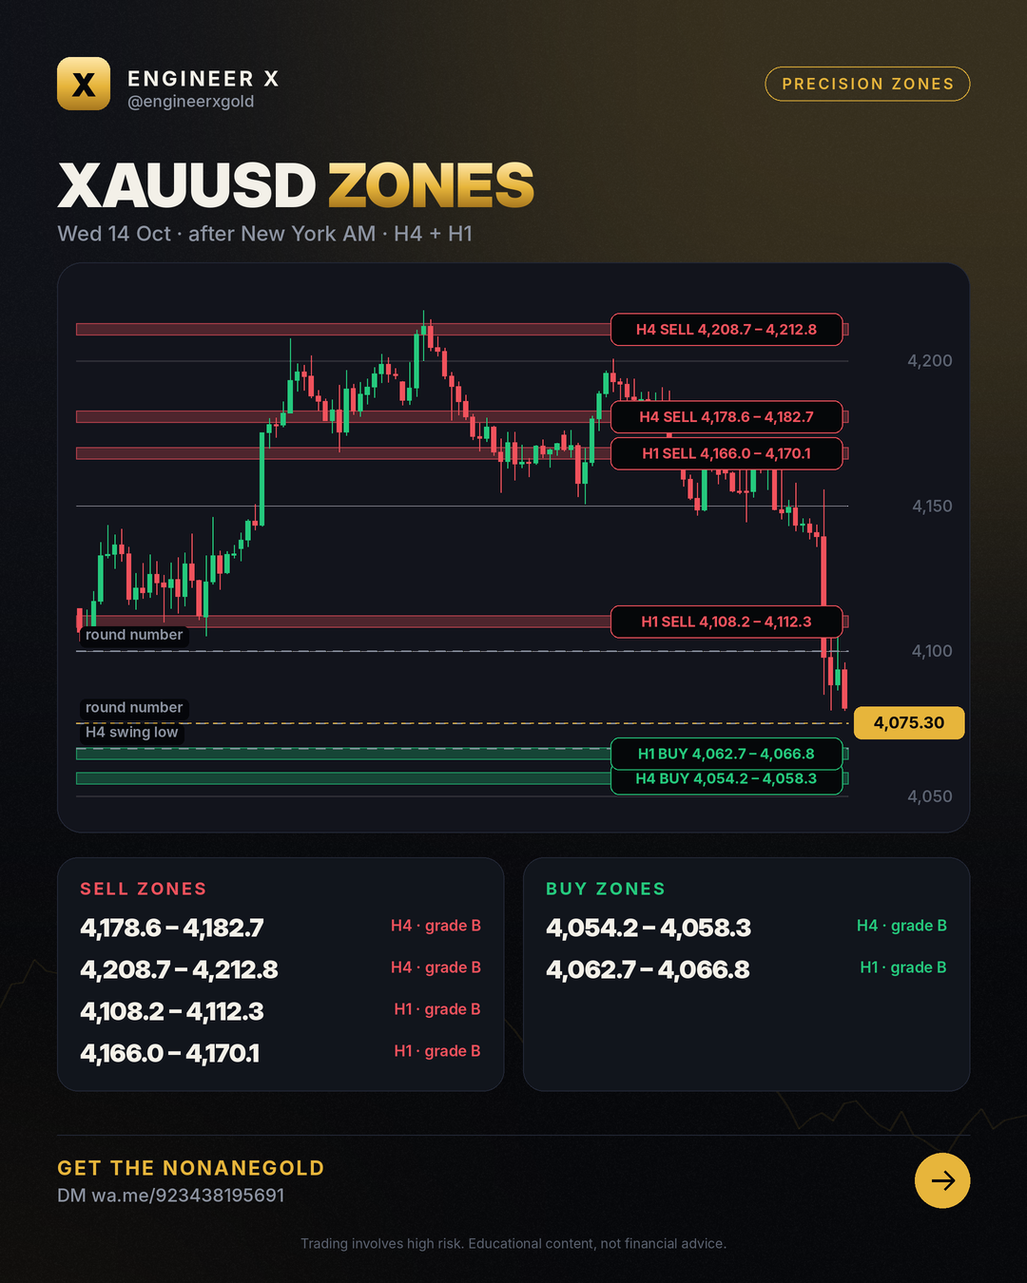
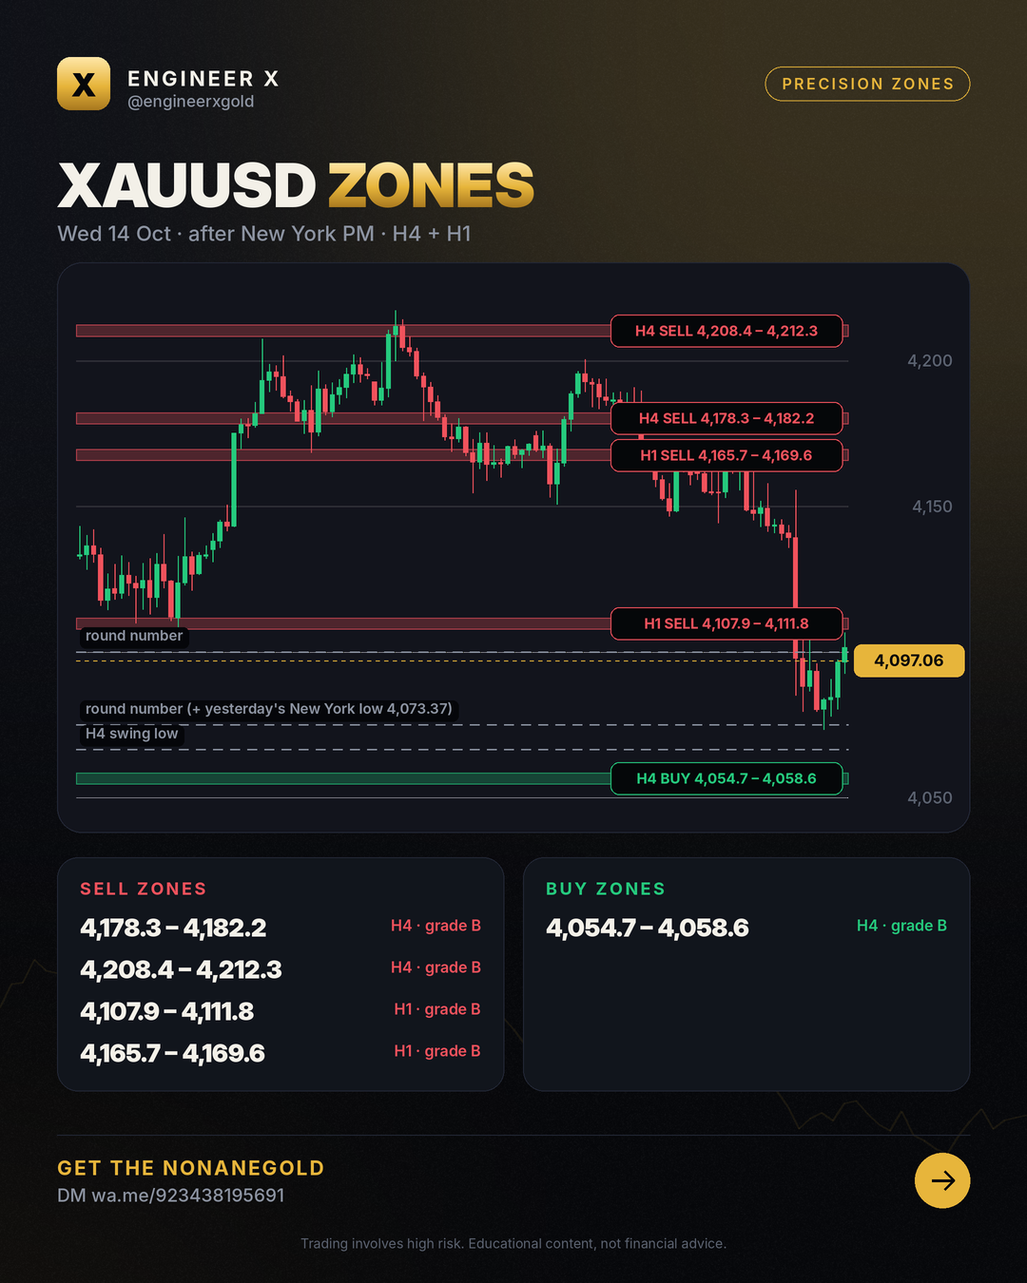
zones 2026-10-14 Wed 14 Oct · after New York PM · H4 + H1

diff --git a/zones/2026-10-14/index.html b/zones/2026-10-14/index.html
@@ -4,7 +4,7 @@
 <meta charset="utf-8">
 <meta name="viewport" content="width=device-width,initial-scale=1">
 <title>Gold Price Today Israel – 14 Oct 2026 (H4 + H1)</title>
-<meta name="description" content="XAUUSD buy and sell zones for 2026-10-14: narrow H4 and H1 bands with invalidation levels, updated after the Asian, London and New York sessions. Price 4,075.30.">
+<meta name="description" content="XAUUSD buy and sell zones for 2026-10-14: narrow H4 and H1 bands with invalidation levels, updated after the Asian, London and New York sessions. Price 4,097.06.">
 <meta name="robots" content="index,follow,max-image-preview:large,max-snippet:-1,max-video-preview:-1">
 <meta name="author" content="Engr. M Ahmad Mehmood">
 <link rel="canonical" href="https://engineerxgold.github.io/zones/2026-10-14/">
@@ -12,7 +12,7 @@
 <link rel="apple-touch-icon" href="../../img/logo.png">
 <meta property="og:site_name" content="Engineer X">
 <meta property="og:title" content="Gold Price Today Israel – 14 Oct 2026 (H4 + H1)">
-<meta property="og:description" content="XAUUSD buy and sell zones for 2026-10-14: narrow H4 and H1 bands with invalidation levels, updated after the Asian, London and New York sessions. Price 4,075.30.">
+<meta property="og:description" content="XAUUSD buy and sell zones for 2026-10-14: narrow H4 and H1 bands with invalidation levels, updated after the Asian, London and New York sessions. Price 4,097.06.">
 <meta property="og:type" content="article">
 <meta property="og:url" content="https://engineerxgold.github.io/zones/2026-10-14/">
 <meta property="og:image" content="https://engineerxgold.github.io/zones/img/2026-10-14.png">
@@ -22,7 +22,7 @@
 <meta property="og:locale" content="en_US">
 <meta name="twitter:card" content="summary_large_image">
 <meta name="twitter:title" content="Gold Price Today Israel – 14 Oct 2026 (H4 + H1)">
-<meta name="twitter:description" content="XAUUSD buy and sell zones for 2026-10-14: narrow H4 and H1 bands with invalidation levels, updated after the Asian, London and New York sessions. Price 4,075.30.">
+<meta name="twitter:description" content="XAUUSD buy and sell zones for 2026-10-14: narrow H4 and H1 bands with invalidation levels, updated after the Asian, London and New York sessions. Price 4,097.06.">
 <meta name="twitter:image" content="https://engineerxgold.github.io/zones/img/2026-10-14.png">
 <meta name="twitter:image:alt" content="Gold Price Today Israel – 14 Oct 2026 (H4 + H1)">
 
@@ -32,7 +32,7 @@
 <link rel="preconnect" href="https://fonts.googleapis.com">
 <link rel="preconnect" href="https://fonts.gstatic.com" crossorigin>
 <link href="https://fonts.googleapis.com/css2?family=Inter:wght@400;500;600;800;900&display=swap" rel="stylesheet">
-<script type="application/ld+json">{"@context": "https://schema.org", "@type": "Organization", "@id": "https://engineerxgold.github.io/#organization", "name": "Engineer X", "url": "https://engineerxgold.github.io/", "logo": {"@type": "ImageObject", "url": "https://engineerxgold.github.io/img/logo.png", "width": 512, "height": 512}, "sameAs": ["https://t.me/engineerxgold"]}</script><script type="application/ld+json">{"@context": "https://schema.org", "@type": "Article", "headline": "Gold Price Today Israel – 14 Oct 2026 (H4 + H1)", "datePublished": "2026-10-14T08:00:00+05:00", "dateModified": "2026-10-14T21:03:17+05:00", "author": {"@type": "Person", "@id": "https://engineerxgold.github.io/about/#author", "name": "Engr. M Ahmad Mehmood", "url": "https://engineerxgold.github.io/about/", "jobTitle": "MQL5 Expert Advisor developer and gold market analyst", "worksFor": {"@id": "https://engineerxgold.github.io/#organization"}}, "publisher": {"@id": "https://engineerxgold.github.io/#organization"}, "image": "https://engineerxgold.github.io/zones/img/2026-10-14.png", "mainEntityOfPage": "https://engineerxgold.github.io/zones/2026-10-14/"}</script>
+<script type="application/ld+json">{"@context": "https://schema.org", "@type": "Organization", "@id": "https://engineerxgold.github.io/#organization", "name": "Engineer X", "url": "https://engineerxgold.github.io/", "logo": {"@type": "ImageObject", "url": "https://engineerxgold.github.io/img/logo.png", "width": 512, "height": 512}, "sameAs": ["https://t.me/engineerxgold"]}</script><script type="application/ld+json">{"@context": "https://schema.org", "@type": "Article", "headline": "Gold Price Today Israel – 14 Oct 2026 (H4 + H1)", "datePublished": "2026-10-14T08:00:00+05:00", "dateModified": "2026-10-15T02:02:40+05:00", "author": {"@type": "Person", "@id": "https://engineerxgold.github.io/about/#author", "name": "Engr. M Ahmad Mehmood", "url": "https://engineerxgold.github.io/about/", "jobTitle": "MQL5 Expert Advisor developer and gold market analyst", "worksFor": {"@id": "https://engineerxgold.github.io/#organization"}}, "publisher": {"@id": "https://engineerxgold.github.io/#organization"}, "image": "https://engineerxgold.github.io/zones/img/2026-10-14.png", "mainEntityOfPage": "https://engineerxgold.github.io/zones/2026-10-14/"}</script>
 
 <style>
 :root{--gold:#E7B53B;--gold-hi:#FFE7A8;--bg:#07080B;--bg2:#0E1016;--panel:#12151D;--line:#232836;--green:#25C97D;--red:#F0525C;--text:#F3F0E8;--muted:#8C93A1}
@@ -101,7 +101,7 @@ footer .fl a{color:var(--muted);margin-right:16px}
 <div class="wrap">
 <nav><a class="logo" href="../../"><b>X</b>Engineer X</a>
 <div class="links"><a href="../../zones/">Daily Zones</a><a href="../../blog/">Learn</a><a href="../../ea/">Gold EA</a><a href="../../about/">About</a><a class="cta" href="https://wa.me/923438195691">Get the EA</a></div></nav>
-<article><p class="crumbs"><a href="../../">Home</a> › <a href="../">Zones</a> › 2026-10-14</p><h1>Gold Price Today Israel – 14 Oct 2026 (H4 + H1)</h1><p class="byline">Wed 14 Oct · after New York AM · H4 + H1 · by Engr. M Ahmad Mehmood</p><img src="../img/2026-10-14.png" alt="XAUUSD zone map 2026-10-14" width="1080" height="1350" loading="eager"><h2>Zones</h2><div style="overflow-x:auto"><table style="width:100%;border-collapse:collapse;font-size:15px"><tr><th align=left>Zone</th><th align=left>Price band</th><th>Grade</th><th align=left>Invalid</th><th align=left>Why</th></tr><tr><td>H4 sell</td><td><b>4,178.64 – 4,182.74</b></td><td>B</td><td>above 4,190.94</td><td>beyond Asia high + H4 swing high (stops rest there; sweeps often end here)</td></tr><tr><td>H4 sell</td><td><b>4,208.73 – 4,212.83</b></td><td>B</td><td>above 4,221.03</td><td>beyond H4 swing high + previous day high (stops rest there; sweeps often end here)</td></tr><tr><td>H1 sell</td><td><b>4,108.20 – 4,112.30</b></td><td>B</td><td>above 4,120.50</td><td>beyond round number (stops rest there; sweeps often end here)</td></tr><tr><td>H1 sell</td><td><b>4,166.04 – 4,170.14</b></td><td>B</td><td>above 4,178.34</td><td>beyond London high (stops rest there; sweeps often end here)</td></tr><tr><td>H1 buy</td><td><b>4,062.70 – 4,066.80</b></td><td>B</td><td>below 4,054.50</td><td>beyond round number (stops rest there; sweeps often end here)</td></tr><tr><td>H4 buy</td><td><b>4,054.18 – 4,058.28</b></td><td>B</td><td>below 4,045.98</td><td>beyond H4 swing low (stops rest there; sweeps often end here)</td></tr></table></div><h2>How to read this map</h2><p>Bands are where price is expected to react; they are not entries. An hourly close beyond the invalidation price ends the zone. Obvious highs and lows (listed as liquidity) are often swept first, so our zones sit just beyond them.</p><div class="ctabox"><h3>🤖 Trade the zones with the NonaneGold</h3><p>Free signals group access + setup help Message us and we will help you set it up.</p><div class="btns"><a class="btn gold" href="https://wa.me/923438195691">Get the EA on Telegram</a><a class="btn ghost" href="../../ea/">About the EA</a></div></div></article>
+<article><p class="crumbs"><a href="../../">Home</a> › <a href="../">Zones</a> › 2026-10-14</p><h1>Gold Price Today Israel – 14 Oct 2026 (H4 + H1)</h1><p class="byline">Wed 14 Oct · after New York PM · H4 + H1 · by Engr. M Ahmad Mehmood</p><img src="../img/2026-10-14.png" alt="XAUUSD zone map 2026-10-14" width="1080" height="1350" loading="eager"><h2>Zones</h2><div style="overflow-x:auto"><table style="width:100%;border-collapse:collapse;font-size:15px"><tr><th align=left>Zone</th><th align=left>Price band</th><th>Grade</th><th align=left>Invalid</th><th align=left>Why</th></tr><tr><td>H4 sell</td><td><b>4,178.30 – 4,182.23</b></td><td>B</td><td>above 4,190.09</td><td>beyond H4 swing high + yesterday&#x27;s Asia high (stops rest there; sweeps often end here)</td></tr><tr><td>H4 sell</td><td><b>4,208.39 – 4,212.32</b></td><td>B</td><td>above 4,220.18</td><td>beyond previous day high + H4 swing high (stops rest there; sweeps often end here)</td></tr><tr><td>H1 sell</td><td><b>4,107.86 – 4,111.79</b></td><td>B</td><td>above 4,119.65</td><td>beyond round number (stops rest there; sweeps often end here)</td></tr><tr><td>H1 sell</td><td><b>4,165.70 – 4,169.63</b></td><td>B</td><td>above 4,177.49</td><td>beyond yesterday&#x27;s London high + yesterday&#x27;s New York high (stops rest there; sweeps often end here)</td></tr><tr><td>H4 buy</td><td><b>4,054.69 – 4,058.62</b></td><td>B</td><td>below 4,046.83</td><td>beyond H4 swing low + yesterday&#x27;s New York low + round number (stops rest there; sweeps often end here)</td></tr></table></div><h2>How to read this map</h2><p>Bands are where price is expected to react; they are not entries. An hourly close beyond the invalidation price ends the zone. Obvious highs and lows (listed as liquidity) are often swept first, so our zones sit just beyond them.</p><div class="ctabox"><h3>🤖 Trade the zones with the NonaneGold</h3><p>Free signals group access + setup help Message us and we will help you set it up.</p><div class="btns"><a class="btn gold" href="https://wa.me/923438195691">Get the EA on Telegram</a><a class="btn ghost" href="../../ea/">About the EA</a></div></div></article>
 <footer>
 <div class="warn"><b>Risk warning:</b> Trading gold, forex and CFDs carries a high risk of losing money and is not suitable for everyone. Past results do not guarantee future results. Everything on this site is educational and not financial advice. We are an introducing partner of our broker and may earn a commission on accounts opened through our link.</div>
 <p class="fl" style="margin-top:18px"><a href="../../about/">About &amp; methodology</a><a href="../../privacy.html">Privacy</a><a href="../../terms.html">Terms &amp; risk disclosure</a><a href="../../feed.xml">RSS</a><a href="https://t.me/engineerxgold">Telegram</a></p>

diff --git a/zones/index.html b/zones/index.html
@@ -4,7 +4,7 @@
 <meta charset="utf-8">
 <meta name="viewport" content="width=device-width,initial-scale=1">
 <title>XAUUSD Zones Today – Buy &amp; Sell Zones (H4, H1) | Engineer X</title>
-<meta name="description" content="XAUUSD buy and sell zones for 2026-10-14: narrow H4 and H1 bands with invalidation levels, updated after the Asian, London and New York sessions. Price 4,075.30.">
+<meta name="description" content="XAUUSD buy and sell zones for 2026-10-14: narrow H4 and H1 bands with invalidation levels, updated after the Asian, London and New York sessions. Price 4,097.06.">
 <meta name="robots" content="index,follow,max-image-preview:large,max-snippet:-1,max-video-preview:-1">
 <meta name="author" content="Engr. M Ahmad Mehmood">
 <link rel="canonical" href="https://engineerxgold.github.io/zones/">
@@ -12,7 +12,7 @@
 <link rel="apple-touch-icon" href="../img/logo.png">
 <meta property="og:site_name" content="Engineer X">
 <meta property="og:title" content="XAUUSD Zones Today – Buy &amp; Sell Zones (H4, H1) | Engineer X">
-<meta property="og:description" content="XAUUSD buy and sell zones for 2026-10-14: narrow H4 and H1 bands with invalidation levels, updated after the Asian, London and New York sessions. Price 4,075.30.">
+<meta property="og:description" content="XAUUSD buy and sell zones for 2026-10-14: narrow H4 and H1 bands with invalidation levels, updated after the Asian, London and New York sessions. Price 4,097.06.">
 <meta property="og:type" content="website">
 <meta property="og:url" content="https://engineerxgold.github.io/zones/">
 <meta property="og:image" content="https://engineerxgold.github.io/zones/img/2026-10-14.png">
@@ -22,7 +22,7 @@
 <meta property="og:locale" content="en_US">
 <meta name="twitter:card" content="summary_large_image">
 <meta name="twitter:title" content="XAUUSD Zones Today – Buy &amp; Sell Zones (H4, H1) | Engineer X">
-<meta name="twitter:description" content="XAUUSD buy and sell zones for 2026-10-14: narrow H4 and H1 bands with invalidation levels, updated after the Asian, London and New York sessions. Price 4,075.30.">
+<meta name="twitter:description" content="XAUUSD buy and sell zones for 2026-10-14: narrow H4 and H1 bands with invalidation levels, updated after the Asian, London and New York sessions. Price 4,097.06.">
 <meta name="twitter:image" content="https://engineerxgold.github.io/zones/img/2026-10-14.png">
 <meta name="twitter:image:alt" content="XAUUSD Zones Today – Buy &amp; Sell Zones (H4, H1) | Engineer X">
 
@@ -101,7 +101,7 @@ footer .fl a{color:var(--muted);margin-right:16px}
 <div class="wrap">
 <nav><a class="logo" href="../"><b>X</b>Engineer X</a>
 <div class="links"><a href="../zones/">Daily Zones</a><a href="../blog/">Learn</a><a href="../ea/">Gold EA</a><a href="../about/">About</a><a class="cta" href="https://wa.me/923438195691">Get the EA</a></div></nav>
-<section class="hero"><span class="chip">Updated Wed 14 Oct · after New York AM · H4 + H1</span><h1>XAUUSD <span class="gold">precision zones</span></h1><p>XAUUSD buy and sell zones for 2026-10-14: narrow H4 and H1 bands with invalidation levels, updated after the Asian, London and New York sessions. Price 4,075.30.</p></section><img src="img/2026-10-14.png" alt="Latest XAUUSD zone map" width="1080" height="1350"><section><h2>Current zones</h2><div style="overflow-x:auto"><table style="width:100%;border-collapse:collapse;font-size:15px"><tr><th align=left>Zone</th><th align=left>Price band</th><th>Grade</th><th align=left>Invalid</th><th align=left>Why</th></tr><tr><td>H4 sell</td><td><b>4,178.64 – 4,182.74</b></td><td>B</td><td>above 4,190.94</td><td>beyond Asia high + H4 swing high (stops rest there; sweeps often end here)</td></tr><tr><td>H4 sell</td><td><b>4,208.73 – 4,212.83</b></td><td>B</td><td>above 4,221.03</td><td>beyond H4 swing high + previous day high (stops rest there; sweeps often end here)</td></tr><tr><td>H1 sell</td><td><b>4,108.20 – 4,112.30</b></td><td>B</td><td>above 4,120.50</td><td>beyond round number (stops rest there; sweeps often end here)</td></tr><tr><td>H1 sell</td><td><b>4,166.04 – 4,170.14</b></td><td>B</td><td>above 4,178.34</td><td>beyond London high (stops rest there; sweeps often end here)</td></tr><tr><td>H1 buy</td><td><b>4,062.70 – 4,066.80</b></td><td>B</td><td>below 4,054.50</td><td>beyond round number (stops rest there; sweeps often end here)</td></tr><tr><td>H4 buy</td><td><b>4,054.18 – 4,058.28</b></td><td>B</td><td>below 4,045.98</td><td>beyond H4 swing low (stops rest there; sweeps often end here)</td></tr></table></div></section><section><h2>Honest scorecard</h2><div class="grid"><div class="card"><div class="n">36</div><p>zones published (30 days)</p></div><div class="card"><div class="n">15</div><p>held (moved 1 hourly ATR away)</p></div><div class="card"><div class="n">0</div><p>broke (hourly close beyond invalidation)</p></div><div class="card"><div class="n">100%</div><p>hold rate of decided zones</p></div></div></section><div class="ctabox"><h3>🤖 Trade the zones with the NonaneGold</h3><p>Free signals group access + setup help Message us and we will help you set it up.</p><div class="btns"><a class="btn gold" href="https://wa.me/923438195691">Get the EA on Telegram</a><a class="btn ghost" href="../ea/">About the EA</a></div></div><section><h2>Archive</h2><div class="grid posts"><a class="card" href="2026-10-14/"><span class="date">2026-10-14</span><h3>XAUUSD zones 2026-10-14</h3></a><a class="card" href="2026-10-13/"><span class="date">2026-10-13</span><h3>XAUUSD zones 2026-10-13</h3></a></div></section>
+<section class="hero"><span class="chip">Updated Wed 14 Oct · after New York PM · H4 + H1</span><h1>XAUUSD <span class="gold">precision zones</span></h1><p>XAUUSD buy and sell zones for 2026-10-14: narrow H4 and H1 bands with invalidation levels, updated after the Asian, London and New York sessions. Price 4,097.06.</p></section><img src="img/2026-10-14.png" alt="Latest XAUUSD zone map" width="1080" height="1350"><section><h2>Current zones</h2><div style="overflow-x:auto"><table style="width:100%;border-collapse:collapse;font-size:15px"><tr><th align=left>Zone</th><th align=left>Price band</th><th>Grade</th><th align=left>Invalid</th><th align=left>Why</th></tr><tr><td>H4 sell</td><td><b>4,178.30 – 4,182.23</b></td><td>B</td><td>above 4,190.09</td><td>beyond H4 swing high + yesterday&#x27;s Asia high (stops rest there; sweeps often end here)</td></tr><tr><td>H4 sell</td><td><b>4,208.39 – 4,212.32</b></td><td>B</td><td>above 4,220.18</td><td>beyond previous day high + H4 swing high (stops rest there; sweeps often end here)</td></tr><tr><td>H1 sell</td><td><b>4,107.86 – 4,111.79</b></td><td>B</td><td>above 4,119.65</td><td>beyond round number (stops rest there; sweeps often end here)</td></tr><tr><td>H1 sell</td><td><b>4,165.70 – 4,169.63</b></td><td>B</td><td>above 4,177.49</td><td>beyond yesterday&#x27;s London high + yesterday&#x27;s New York high (stops rest there; sweeps often end here)</td></tr><tr><td>H4 buy</td><td><b>4,054.69 – 4,058.62</b></td><td>B</td><td>below 4,046.83</td><td>beyond H4 swing low + yesterday&#x27;s New York low + round number (stops rest there; sweeps often end here)</td></tr></table></div></section><section><h2>Honest scorecard</h2><div class="grid"><div class="card"><div class="n">42</div><p>zones published (30 days)</p></div><div class="card"><div class="n">15</div><p>held (moved 1 hourly ATR away)</p></div><div class="card"><div class="n">0</div><p>broke (hourly close beyond invalidation)</p></div><div class="card"><div class="n">100%</div><p>hold rate of decided zones</p></div></div></section><div class="ctabox"><h3>🤖 Trade the zones with the NonaneGold</h3><p>Free signals group access + setup help Message us and we will help you set it up.</p><div class="btns"><a class="btn gold" href="https://wa.me/923438195691">Get the EA on Telegram</a><a class="btn ghost" href="../ea/">About the EA</a></div></div><section><h2>Archive</h2><div class="grid posts"><a class="card" href="2026-10-14/"><span class="date">2026-10-14</span><h3>XAUUSD zones 2026-10-14</h3></a><a class="card" href="2026-10-13/"><span class="date">2026-10-13</span><h3>XAUUSD zones 2026-10-13</h3></a></div></section>
 <footer>
 <div class="warn"><b>Risk warning:</b> Trading gold, forex and CFDs carries a high risk of losing money and is not suitable for everyone. Past results do not guarantee future results. Everything on this site is educational and not financial advice. We are an introducing partner of our broker and may earn a commission on accounts opened through our link.</div>
 <p class="fl" style="margin-top:18px"><a href="../about/">About &amp; methodology</a><a href="../privacy.html">Privacy</a><a href="../terms.html">Terms &amp; risk disclosure</a><a href="../feed.xml">RSS</a><a href="https://t.me/engineerxgold">Telegram</a></p>

diff --git a/index.html b/index.html
@@ -101,7 +101,7 @@ footer .fl a{color:var(--muted);margin-right:16px}
 <div class="wrap">
 <nav><a class="logo" href="./"><b>X</b>Engineer X</a>
 <div class="links"><a href="./zones/">Daily Zones</a><a href="./blog/">Learn</a><a href="./ea/">Gold EA</a><a href="./about/">About</a><a class="cta" href="https://wa.me/923438195691">Get the EA</a></div></nav>
-<section class="hero"><span class="chip">XAUUSD · H4 + H1 · every session</span><h1>Gold <span class="gold">precision zones</span>, updated after every session</h1><p>Narrow buy and sell zones with clear invalidation, a scorecard of every result, and the NonaneGold for traders who want it automated.</p><div class="btns"><a class="btn gold" href="zones/">See today's zones</a><a class="btn ghost" href="https://wa.me/923438195691">Get the EA</a></div></section><section><h2>Latest map Wed 14 Oct · after New York AM · H4 + H1</h2><img src="zones/img/2026-10-14.png" alt="Latest XAUUSD zones" width="1080" height="1350"></section><div class="ctabox"><h3>🤖 Trade the zones with the NonaneGold</h3><p>Free signals group access + setup help Message us and we will help you set it up.</p><div class="btns"><a class="btn gold" href="https://wa.me/923438195691">Get the EA on Telegram</a><a class="btn ghost" href="ea/">About the EA</a></div></div><section><h2>Learn</h2><div class="grid posts"><a class="card" href="blog/gold-supply-and-demand-zones-h4-h1-trading-map/"><span class="date">2026-10-14</span><h3>Gold Supply and Demand Zones: H4 &amp; H1 Trading Map</h3></a><a class="card" href="blog/gold-trading-strategy-for-zones-and-liquidity-in-xauusd/"><span class="date">2026-10-13</span><h3>Gold trading strategy for zones and liquidity in XAUUSD</h3></a><a class="card" href="blog/stop-loss-ke-baghair-trading-ticket-bina-safar/"><span class="date">2026-10-07</span><h3>Stop loss ke baghair trading = ticket bina safar</h3></a><a class="card" href="blog/gold-ke-3-sab-se-active-sessions/"><span class="date">2026-10-07</span><h3>Gold ke 3 sab se active sessions</h3></a><a class="card" href="blog/the-math-of-recovery/"><span class="date">2026-10-08</span><h3>The math of recovery</h3></a><a class="card" href="blog/xauusd-entry-confirmation-how-to-trade-gold-with-ict/"><span class="date">2026-10-10</span><h3>XAUUSD Entry Confirmation: How to Trade Gold with ICT</h3></a></div></section><section><h2>FAQ</h2><details><summary>What is a precision zone?</summary><p>A narrow price band (about a quarter of the hourly range) where gold started a strong move or where a sweep of obvious liquidity usually ends. Each zone has an invalidation price.</p></details><details><summary>How often are the zones updated?</summary><p>A daily plan at the Asian open, then after the Asian, London and New York sessions.</p></details><details><summary>Are these trade signals?</summary><p>No. Zones are areas to watch. Wait for your own confirmation and manage risk.</p></details><details><summary>How do I get the Gold EA?</summary><p>Message us on Telegram or WhatsApp; we answer and help with the setup.</p></details></section>
+<section class="hero"><span class="chip">XAUUSD · H4 + H1 · every session</span><h1>Gold <span class="gold">precision zones</span>, updated after every session</h1><p>Narrow buy and sell zones with clear invalidation, a scorecard of every result, and the NonaneGold for traders who want it automated.</p><div class="btns"><a class="btn gold" href="zones/">See today's zones</a><a class="btn ghost" href="https://wa.me/923438195691">Get the EA</a></div></section><section><h2>Latest map Wed 14 Oct · after New York PM · H4 + H1</h2><img src="zones/img/2026-10-14.png" alt="Latest XAUUSD zones" width="1080" height="1350"></section><div class="ctabox"><h3>🤖 Trade the zones with the NonaneGold</h3><p>Free signals group access + setup help Message us and we will help you set it up.</p><div class="btns"><a class="btn gold" href="https://wa.me/923438195691">Get the EA on Telegram</a><a class="btn ghost" href="ea/">About the EA</a></div></div><section><h2>Learn</h2><div class="grid posts"><a class="card" href="blog/gold-supply-and-demand-zones-h4-h1-trading-map/"><span class="date">2026-10-14</span><h3>Gold Supply and Demand Zones: H4 &amp; H1 Trading Map</h3></a><a class="card" href="blog/gold-trading-strategy-for-zones-and-liquidity-in-xauusd/"><span class="date">2026-10-13</span><h3>Gold trading strategy for zones and liquidity in XAUUSD</h3></a><a class="card" href="blog/stop-loss-ke-baghair-trading-ticket-bina-safar/"><span class="date">2026-10-07</span><h3>Stop loss ke baghair trading = ticket bina safar</h3></a><a class="card" href="blog/gold-ke-3-sab-se-active-sessions/"><span class="date">2026-10-07</span><h3>Gold ke 3 sab se active sessions</h3></a><a class="card" href="blog/the-math-of-recovery/"><span class="date">2026-10-08</span><h3>The math of recovery</h3></a><a class="card" href="blog/xauusd-entry-confirmation-how-to-trade-gold-with-ict/"><span class="date">2026-10-10</span><h3>XAUUSD Entry Confirmation: How to Trade Gold with ICT</h3></a></div></section><section><h2>FAQ</h2><details><summary>What is a precision zone?</summary><p>A narrow price band (about a quarter of the hourly range) where gold started a strong move or where a sweep of obvious liquidity usually ends. Each zone has an invalidation price.</p></details><details><summary>How often are the zones updated?</summary><p>A daily plan at the Asian open, then after the Asian, London and New York sessions.</p></details><details><summary>Are these trade signals?</summary><p>No. Zones are areas to watch. Wait for your own confirmation and manage risk.</p></details><details><summary>How do I get the Gold EA?</summary><p>Message us on Telegram or WhatsApp; we answer and help with the setup.</p></details></section>
 <footer>
 <div class="warn"><b>Risk warning:</b> Trading gold, forex and CFDs carries a high risk of losing money and is not suitable for everyone. Past results do not guarantee future results. Everything on this site is educational and not financial advice. We are an introducing partner of our broker and may earn a commission on accounts opened through our link.</div>
 <p class="fl" style="margin-top:18px"><a href="./about/">About &amp; methodology</a><a href="./privacy.html">Privacy</a><a href="./terms.html">Terms &amp; risk disclosure</a><a href="./feed.xml">RSS</a><a href="https://t.me/engineerxgold">Telegram</a></p>
